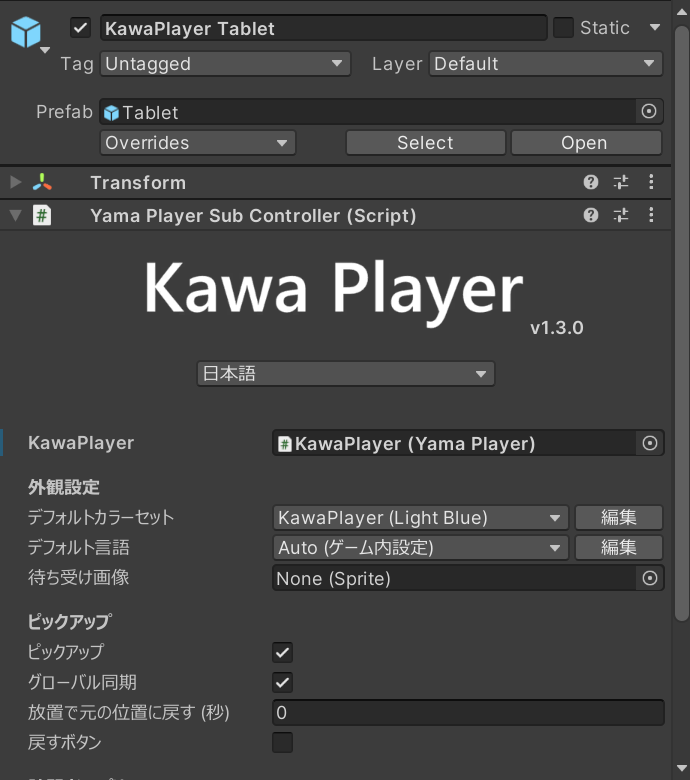
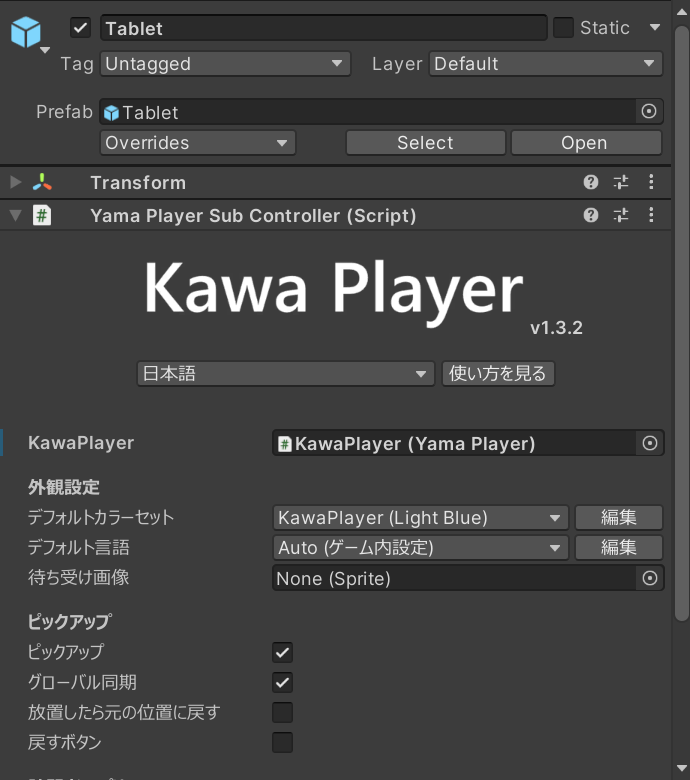
feat(editor): show the tablet's idle return as a toggle and minutes
The inspector drew TabletPickup's idle return as seconds where 0 meant off,
which nothing on screen said (#206). It is now a toggle, and a time in
minutes under it while on. Only the drawing changed: the one stored value is
still seconds, so a world that set seconds keeps them and shows them in
minutes. Turning it on starts at 5 minutes, the minutes go no lower than 1.
The 9 languages, the tablet guide and its inspector picture follow.

Claude-Session: https://claude.ai/code/session_014UgSPcxLDoFJhLM3Stmszr

diff --git a/Editor/Inspector/YamaPlayerSubControllerEditor.cs b/Editor/Inspector/YamaPlayerSubControllerEditor.cs
@@ -33,6 +33,8 @@ namespace Yamadev.YamaStream.Editor
     private TabletPickup _tabletPickup;
     private SerializedObject _tabletPickupSerializedObject;
     private SerializedProperty _idleReturnSeconds;
+    private const float DefaultIdleReturnMinutes = 5f;
+    private const float MinIdleReturnMinutes = 1f;
     private TabletReturnButton _tabletReturnButton;
     private SerializedObject _visitorRecorderSerializedObject;
     private SerializedProperty _visitorPhotosEnabled;
@@ -256,12 +258,29 @@ namespace Yamadev.YamaStream.Editor
     }
 
     // The tablet's two ways back to where it was placed (issue #108, D1).
+    // Going back when left alone is a toggle and a time in minutes, drawn
+    // over the one value TabletPickup keeps, in seconds, where 0 is off
+    // (issue #206). A world that set seconds before shows them in minutes,
+    // unchanged until edited.
     private void DrawTabletReturnSettings()
     {
       if (_idleReturnSeconds != null)
       {
         _tabletPickupSerializedObject.Update();
-        EditorGUILayout.PropertyField(_idleReturnSeconds, EditorLocalization.GetLayout("settings.idleReturn.label", "settings.idleReturn.tooltip"));
+        float seconds = _idleReturnSeconds.floatValue;
+        bool on = EditorGUILayout.Toggle(EditorLocalization.GetLayout("settings.idleReturn.label", "settings.idleReturn.tooltip"), seconds > 0f);
+        if (!on) seconds = 0f;
+        else
+        {
+          if (seconds <= 0f) seconds = DefaultIdleReturnMinutes * 60f;
+          using (new EditorGUI.IndentLevelScope())
+          using (var check = new EditorGUI.ChangeCheckScope())
+          {
+            float minutes = EditorGUILayout.FloatField(EditorLocalization.GetLayout("settings.idleReturnMinutes.label", "settings.idleReturnMinutes.tooltip"), seconds / 60f);
+            if (check.changed) seconds = Mathf.Max(MinIdleReturnMinutes, minutes) * 60f;
+          }
+        }
+        if (seconds != _idleReturnSeconds.floatValue) _idleReturnSeconds.floatValue = seconds;
       }
 
       if (_tabletReturnButton == null) return;

diff --git a/docs/guide/tablet.md b/docs/guide/tablet.md
@@ -24,12 +24,13 @@
 | **外観設定** | タブレットの UI の色（カラーセット）と言語の初期値。KawaPlayer の外観設定と同じように選ぶ（[KawaPlayer の設定](settings.md#外観設定)） |
 | **ピックアップ** | 手に持てるようにする |
 | **グローバル同期** | 持って動かした位置を、ほかの人にも同期する |
-| **放置で元の位置に戻す (秒)** | 誰も持たず、画面も切り替えないまま、この秒数が過ぎると、置いた位置に戻る。初めは 0 で、0 のときは無効（何秒放置しても戻らない） |
+| **放置したら元の位置に戻す** | オンにすると、置き忘れたタブレットが、しばらくしたら置いた位置に戻る。初めはオフ |
+| **戻すまでの時間 (分)** | **放置したら元の位置に戻す** がオンのときに出る。誰も持たず、画面も切り替えないまま、この分数が過ぎると戻る。オンにしたときは 5 分で、1 分以上にできる |
 | **戻すボタン** | オンにすると、置き去りのタブレットを元の位置に戻すボタンが付く。初めはオフ。ボタンは、Hierarchy の **ReturnButton** を動かして、好きな場所に置ける |
 | **アバターの顔写真**（訪問者アプリ） | 訪問者アプリで、アバターの顔写真を撮って出す。オフにすると、代わりの画像を出す |
 
 - **ピックアップの下の欄:** **グローバル同期** から **戻すボタン** までは、**ピックアップ** がオンのときに出ます。
-- **初めの設定では戻らない:** **放置で元の位置に戻す (秒)** は 0、**戻すボタン** はオフなので、置き忘れたタブレットは元の場所に戻りません。戻したいときは、どちらかを使ってください。
+- **初めの設定では戻らない:** **放置したら元の位置に戻す** と **戻すボタン** は、どちらも初めはオフなので、置き忘れたタブレットは元の場所に戻りません。戻したいときは、どちらかをオンにしてください。
 - **顔写真の記録:** 訪問者の記録はワールドの全タブレットで 1 つです。どれか 1 台で **アバターの顔写真** をオフにすると、すべてのタブレットで撮りません。
 
 ## 使う
